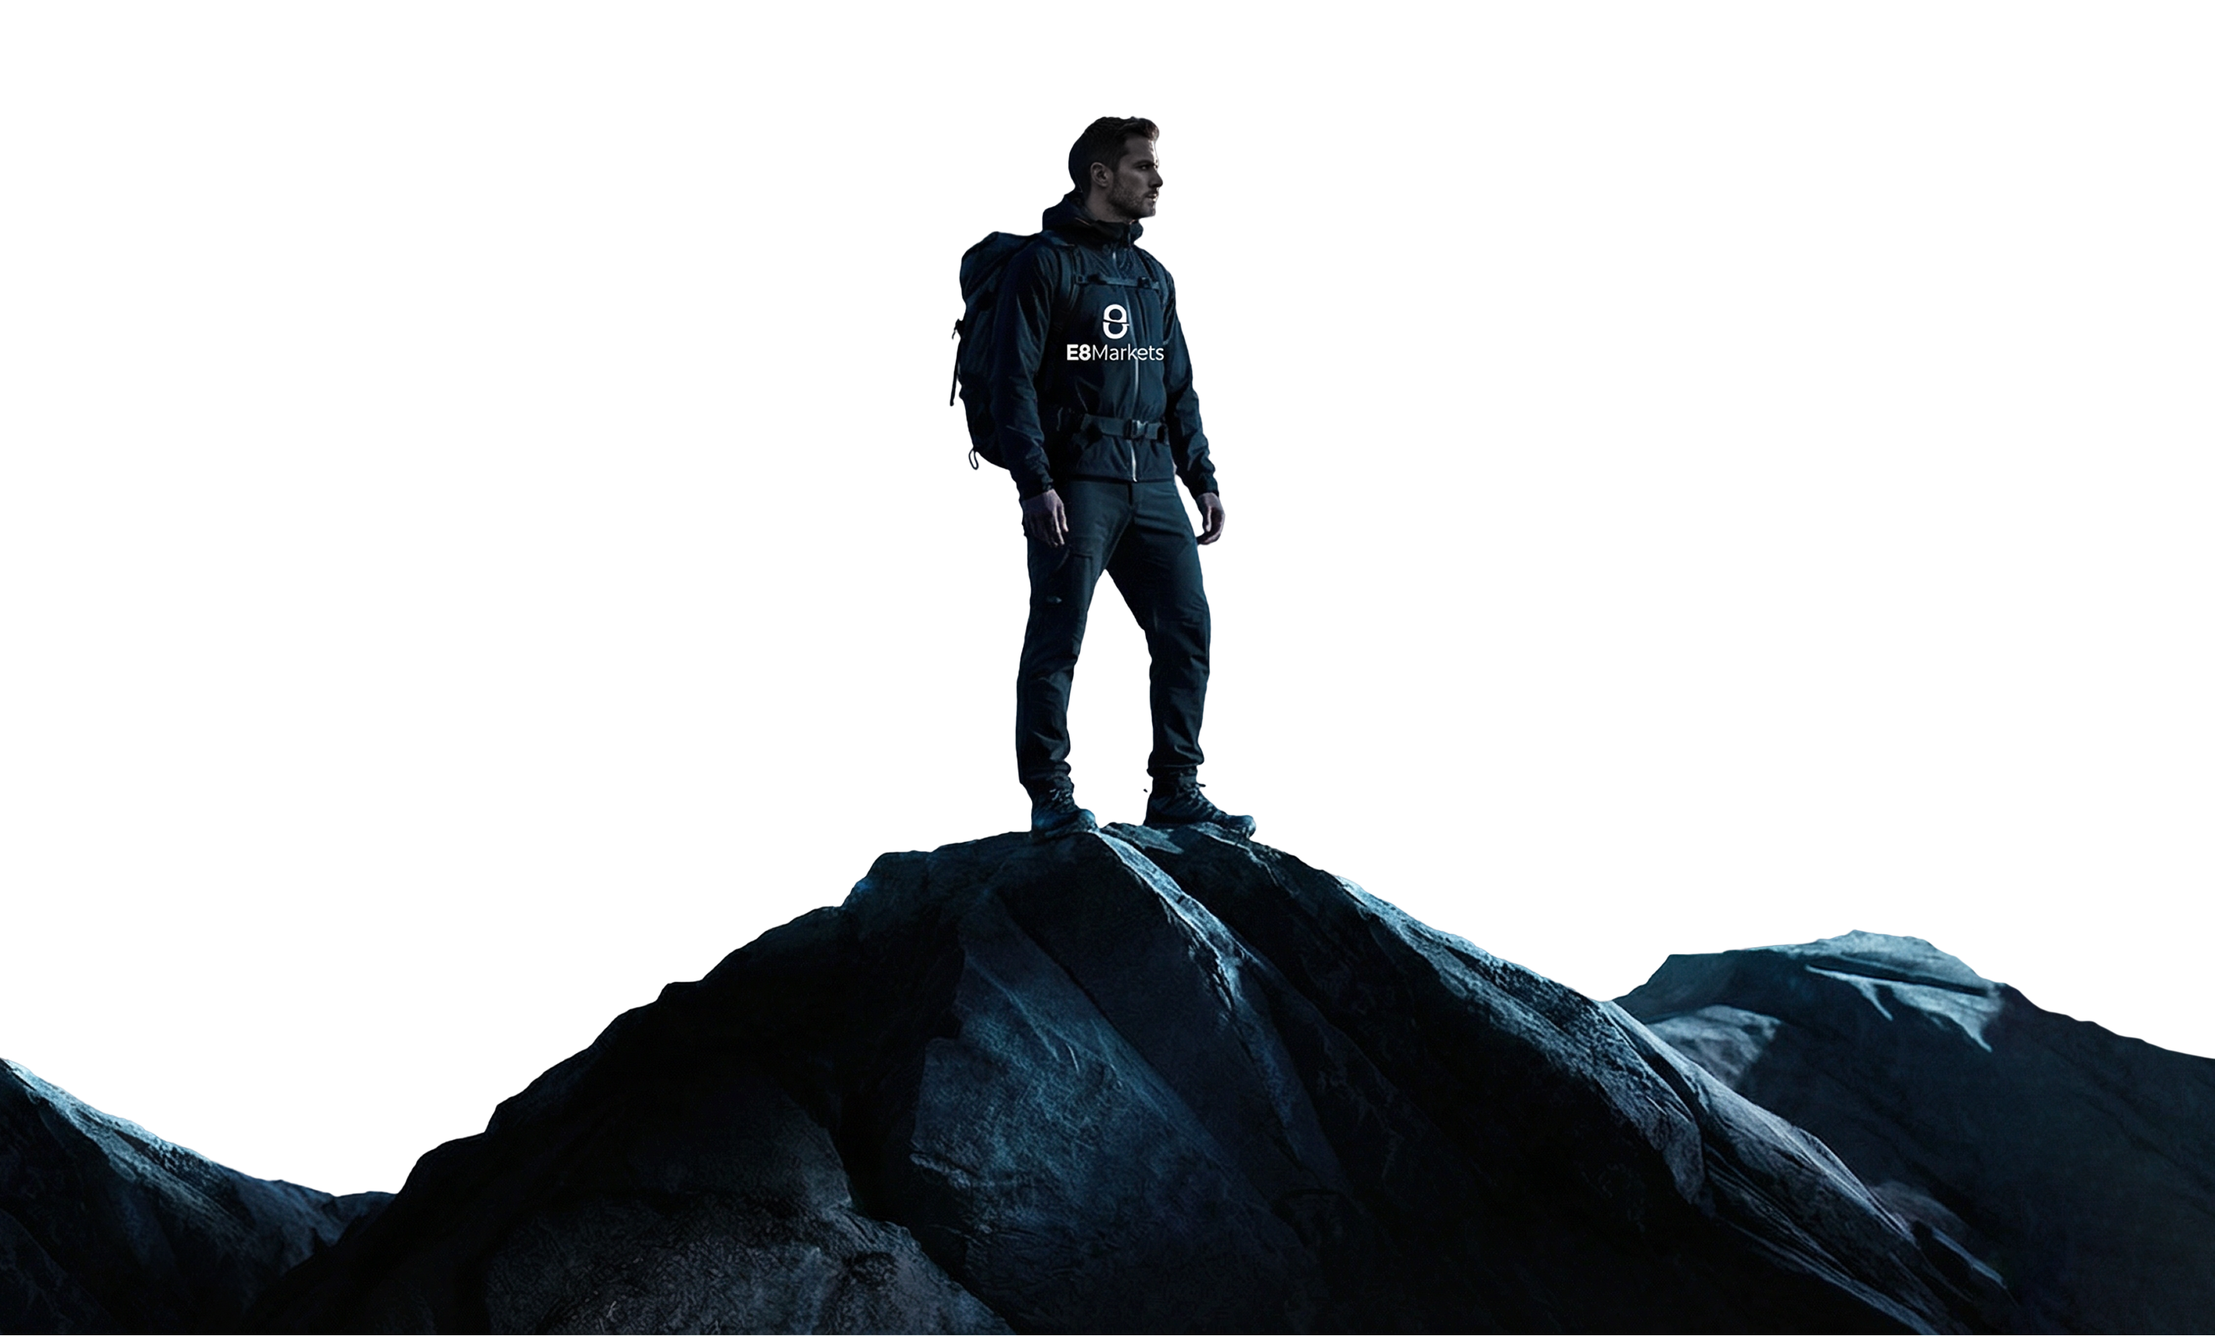
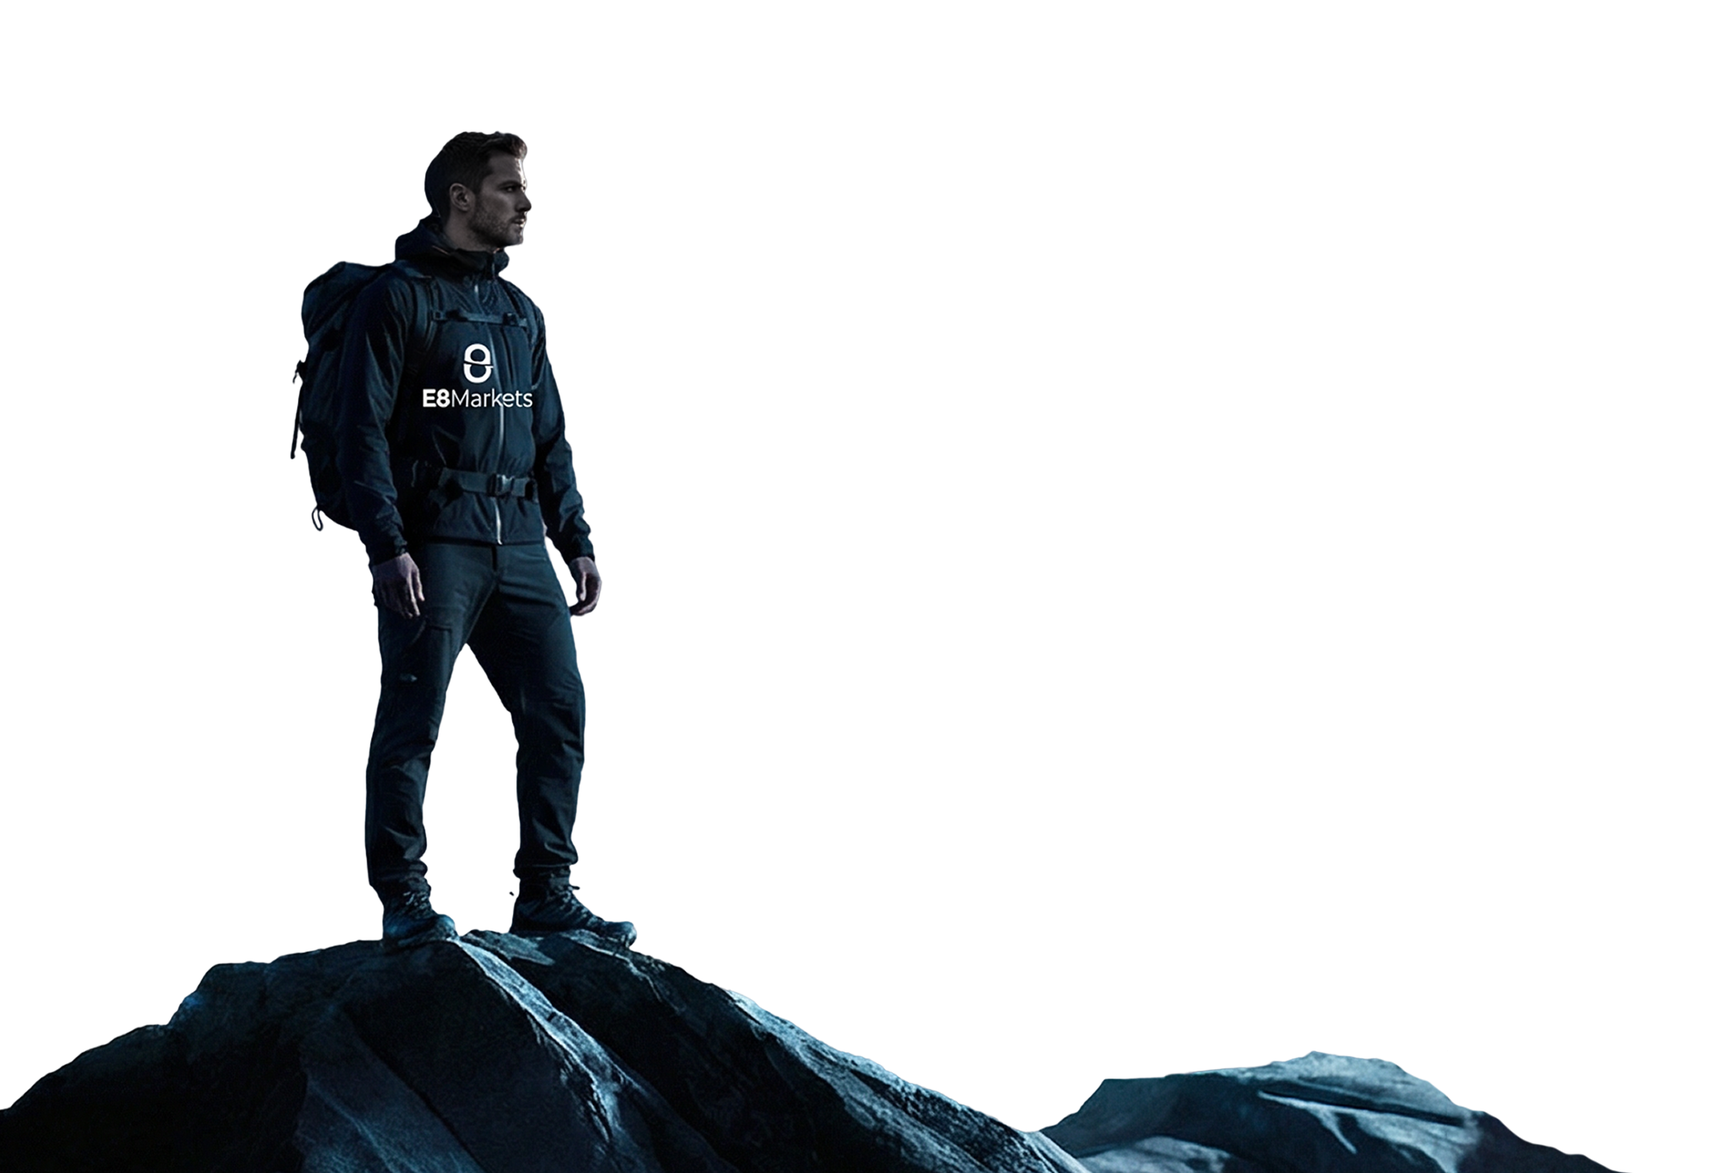
HowYouLearn-SectionsLivePayouts-SectionsSimFiExperience-sections

diff --git a/app/components/sections/SimFiExperience.vue b/app/components/sections/SimFiExperience.vue
@@ -1,60 +1,51 @@
 <template>
-  <section class="relative min-h-screen overflow-hidden py-20"
-    style="background: linear-gradient(180deg, #040404 0%, #1a0c04 30%, #3d1a05 60%, #000504 100%)">
-    <!-- Payout plaque image (phone mockup) -->
-    <div class="absolute right-0 top-0 w-[779px] h-[717px] pointer-events-none">
-      <img src="/images/simfi-payout-phone.png" alt="" class="w-full h-full object-cover" />
+  <section class="relative min-h-screen overflow-hidden">
+    <!-- Background layer 1: warm gradient, centered at bottom, flipped -->
+    <div class="absolute w-full h-[1224px] pointer-events-none flex items-center justify-center">
+      <div class="-scale-y-100 rotate-180 flex-none w-full h-full">
+        <img src="/images/simfi-bg-1.svg" alt="" class="w-full h-full" />
+      </div>
+    </div>
+    <!-- Background layer 2: soft-light accent, flipped -->
+    <div class="absolute bottom-[-5px] left-0 w-full h-[3368px] pointer-events-none mix-blend-soft-light flex items-center justify-center">
+      <div class="-scale-y-100 flex-none w-full h-full">
+        <img src="/images/simfi-bg-2.svg" alt="" class="w-full h-full" />
+      </div>
     </div>
 
-    <div class="relative z-10 max-w-[1440px] mx-auto px-20 py-[122px] flex flex-col justify-between min-h-screen">
-      <!-- Top: SimFi text + live board -->
-      <div class="flex gap-20 items-start">
-        <!-- Left text -->
-        <div class="w-[530px] flex flex-col gap-10">
-          <h2 class="text-[48px] font-normal text-[#441306] leading-[1.4]">
-            The SimFi™ <span class="lowercase">Experience</span>
-          </h2>
-          <div class="flex flex-col gap-3">
-            <div v-for="item in simfiPoints" :key="item" class="flex items-start gap-3">
-              <span class="w-1 h-full mt-1.5 bg-[#441306]/60 flex-shrink-0"></span>
-              <p class="text-[#441306]/80 text-sm leading-relaxed">{{ item }}</p>
-            </div>
-          </div>
-          <a href="#" class="self-start text-sm font-bold uppercase tracking-[-0.28px] rounded-full px-8 py-3 overflow-hidden hover:opacity-90 transition-opacity"
-            style="background: linear-gradient(90deg, #ffbfa4, #ffbfa4); color: #441306; box-shadow: inset 0px 3.345px 14.134px 0px #ff6f1f">
-            START TRADING
-          </a>
-        </div>
+    <!-- Content -->
+    <div class="relative z-10 w-full px-4 max-w-[1440px] lg:px-[80px] py-[122px] flex flex-col justify-between min-h-screen mx-auto gap-[80px]">
+      <!-- Phone plaque layer 1 -->
+      <div class="absolute w-[779px] h-[717px] pointer-events-none hidden md:block right-[-60%] md:right-[-50%] xl:right-0 top-[-123px]">
+        <img src="/images/simfi-payout-plaque-1.png" alt="" class="absolute inset-0 w-full h-full object-cover" />
+      </div>
+      <!-- Phone plaque layer 2: color-dodge -->
+      <div class="absolute w-[779px] h-[717px] pointer-events-none mix-blend-color-dodge opacity-[0.56] hidden md:block right-[-60%] md:right-[-50%] xl:right-0 top-[-123px]">
+        <img src="/images/simfi-payout-plaque-2.png" alt="" class="absolute inset-0 w-full h-full object-cover" />
+      </div>
 
-        <!-- Right: Live Payouts board -->
-        <div class="flex-1 flex flex-col gap-6 mt-auto">
-          <h3 class="text-[32px] text-white text-center leading-[1.6]">
-            Live earnings <span class="lowercase text-white">paid today</span>
-          </h3>
-          <div class="backdrop-blur-[43px] border border-white/10 rounded-xl p-3 overflow-hidden"
-            style="background: linear-gradient(90deg, rgba(255,255,255,0.07) 0%, rgba(39,0,0,0.67) 79.3%)">
-            <div class="flex items-center justify-between mb-3">
-              <p class="text-white/60 text-sm">Updated every 60 seconds</p>
-              <a href="#" class="text-white text-sm font-bold uppercase border-b border-white pb-0.5">
-                View Full Payout Leaderboard →
-              </a>
-            </div>
-            <div class="flex gap-3 overflow-hidden">
-              <div v-for="payout in payouts" :key="payout.name"
-                class="flex-shrink-0 backdrop-blur-[27px] bg-[rgba(131,95,57,0.2)] border border-white/8 rounded-xl p-6 flex items-center justify-between gap-4 w-[calc(33.3%-8px)]">
-                <p class="text-white text-sm w-24">{{ payout.name }}</p>
-                <span class="bg-white/8 text-white text-sm rounded-full px-3 py-1">{{ payout.market }}</span>
-                <p class="text-white/80 text-sm">{{ payout.time }}</p>
-                <p class="text-white font-bold text-base text-right">{{ payout.amount }}</p>
-              </div>
-            </div>
+      <!-- Top: text block -->
+      <div class="flex flex-col gap-[32px] w-full md:max-w-[50%] lg:w-[600px]">
+        <h2
+          class="font-schibsted text-[48px] font-normal text-[#441306] leading-[1.4] [font-feature-settings:'calt'_0,'liga'_0]">
+          The SimFi™ experience
+        </h2>
+        <div class="flex flex-col gap-[12px]">
+          <div v-for="item in simfiPoints" :key="item" class="flex items-center gap-[12px]">
+            <img src="/images/simfi-bullet.svg" alt="" class="w-[14px] h-[14px] shrink-0"/>
+            <p
+              class="font-schibsted text-[#441306] text-[16px] leading-[1.4] opacity-80 [font-feature-settings:'calt'_0,'liga'_0]">
+              {{ item }}</p>
           </div>
-          <p class="text-white text-xs italic text-center opacity-80">
-            Hypothetical/simulated performance has inherent limitations and does not represent actual trading;<br>
-            Results may differ materially in live market conditions.
-          </p>
+        </div>
+        <div class="flex">
+          <AtomicButtonSecondary label="START TRADING" href="#" variant="filled"/>
         </div>
       </div>
+
+      <!-- Bottom: live earnings board -->
+      <LiveEarningsBoard />
+
     </div>
   </section>
 </template>
@@ -63,12 +54,8 @@
 const simfiPoints = [
   'Simulated Finance™ is not a shortcut. It is a structured performance environment.',
   'We license trader performance data, analyze behavioral patterns, and build risk models designed to develop disciplined, capital-ready professionals.',
-  'You trade. We measure. Performance unlocks opportunity.'
+  'You trade. We measure. Performance unlocks opportunity.',
 ]
 
-const payouts = [
-  { name: 'Gabriela B.', market: 'Forex', time: '3 m ago', amount: '$3,250' },
-  { name: 'Leo J.', market: 'Futures', time: '9 m ago', amount: '$1,100' },
-  { name: 'Ryan K.', market: 'Crypto', time: '17 m ago', amount: '$112,900' }
-]
+
 </script>

diff --git a/app/components/sections/HowYouLearn.vue b/app/components/sections/HowYouLearn.vue
@@ -1,46 +1,66 @@
 <template>
-  <section class="relative min-h-[800px] overflow-hidden py-20">
-    <!-- Background -->
+  <section class="relative min-h-[800px] overflow-hidden">
+    <!-- Before Dawn: top-to-bottom dark atmosphere -->
+    <div
+      class="absolute inset-0"
+      style="background: linear-gradient(180deg, rgb(4,4,4) 5%, rgb(12,13,16) 17%, rgb(58,63,83) 42%, rgb(102,108,130) 73%); opacity: 0.75;"
+    ></div>
+    <!-- Right-side darkening for text readability -->
+    <div class="absolute inset-0 bg-gradient-to-r from-transparent via-[#000504]/40 to-[#000504]/90"></div>
+    <!-- Background image: above gradients -->
     <img
       src="/images/howyoulearn-mountain.png"
       alt=""
-      class="absolute inset-0 w-full h-full object-cover"
+      class="absolute inset-0 w-full h-full object-cover object-[30%_center] max-h-full lg:w-auto lg:object-[left_center]"
     />
-    <div class="absolute inset-0 bg-gradient-to-r from-transparent via-transparent to-[#000504]/80"></div>
 
-    <!-- Content -->
-    <div class="relative z-10 max-w-[1440px] mx-auto px-20 flex justify-end py-24">
-      <div class="w-[600px] flex flex-col gap-24">
-        <div class="flex flex-col gap-6">
-          <h2 class="text-[48px] text-white leading-[1.2]">
-            How <span class="lowercase">You Learn While You Earn</span>
+    <!-- Content: right-aligned -->
+    <div class="relative z-10 max-w-[1440px] mx-auto px-4 lg:px-[80px] py-[80px] flex justify-end">
+      <div class="w-full lg:w-[600px] flex flex-col gap-[126px]">
+
+        <!-- Main block -->
+        <div class="flex flex-col gap-[24px] max-w-[600px]">
+          <h2 class="max-w-[337px] text-[48px] text-white leading-[1.2] [font-feature-settings:'calt'_0,'liga'_0]">
+            How You Learn While You Earn
           </h2>
-          <div class="flex flex-col gap-6">
-            <div v-for="(step, i) in steps" :key="i" class="flex items-center gap-3">
-              <span class="text-white font-bold text-sm w-5 text-center opacity-80">{{ i + 1 }}</span>
-              <p class="text-white/80 font-medium text-base">{{ step }}</p>
+
+          <!-- Steps -->
+          <div class="flex flex-col gap-[24px] text-[16px]">
+            <div v-for="(step, i) in steps" :key="i" class="flex items-center gap-[12px]">
+              <span class="font-schibsted font-bold text-white/80 w-[20px] h-[20px] flex items-center justify-center shrink-0 text-[16px] leading-none tracking-[-0.32px] [text-shadow:0_0_12px_rgba(255,255,255,0.33)]">
+                {{ i + 1 }}
+              </span>
+              <p class="font-schibsted font-medium text-white/80 leading-none">{{ step }}</p>
             </div>
           </div>
-          <a href="#" class="self-start bg-white text-black text-sm font-bold uppercase tracking-[-0.56px] rounded-full px-8 py-3 hover:opacity-90 transition-opacity">
-            START TRADING
-          </a>
+
+          <!-- CTA -->
+          <div class="flex">
+            <AtomicButtonSecondary label="START TRADING" href="#" variant="filled" />
+          </div>
         </div>
 
         <!-- Disclaimer -->
-        <div class="flex flex-col gap-6">
-          <p class="text-white/60 text-sm italic leading-relaxed max-w-[397px]">
+        <div class="flex flex-col gap-[24px] max-w-[397px]">
+          <div class="flex items-center justify-center rotate-180">
+            <inline-svg src="/images/icon-scroll-down.svg" class="w-[10px] h-[13px]" />
+          </div>
+          <p class="font-schibsted italic font-normal text-[14px] text-white/60 leading-[16px] [font-feature-settings:'cv09'_1,'ss11'_1,'calt'_0,'liga'_0]">
             E8 is a SaaS educational simulation built for skills training, data collection, and analytical modeling. There is no live-capital or margin risk. Enrollment fees purchase access to the simulation & assessment; payouts are discretionary, not guaranteed, and contingent on E8's acceptance & licensing of your performance data.
           </p>
         </div>
+
       </div>
     </div>
   </section>
 </template>
 
 <script setup lang="ts">
+import InlineSvg from 'vue-inline-svg'
+
 const steps = [
   'Trade on a proven framework.',
   'Qualify through performance.',
-  'Get SimFi™ certified — and earn real payouts.'
+  'Get SimFi™ certified — and earn real payouts.',
 ]
 </script>

diff --git a/app/components/LiveEarningsBoard.vue b/app/components/LiveEarningsBoard.vue
@@ -1,0 +1,64 @@
+<template>
+  <div class="flex flex-col gap-[24px] items-center w-full">
+    <h3 class="text-[32px] text-white text-center leading-[1.6] capitalize max-w-[552px] w-full">
+      Live earnings paid today
+    </h3>
+
+    <!-- Board -->
+    <div
+      class="backdrop-blur-[43px] border border-white/10 rounded-xl overflow-hidden h-[162px] flex flex-col gap-[12px] w-full pt-[12px] pb-[12px]"
+      style="background: linear-gradient(90deg, rgba(255,255,255,0.07) 0%, rgba(39,0,0,0.67) 79.3%); box-shadow: inset 0px 0px 48px 0px rgba(255,255,255,0.25);"
+    >
+      <div class="flex items-center justify-between shrink-0 px-[12px]">
+        <p class="text-white/60 text-[14px] leading-[20px]">Updated every 60 seconds</p>
+        <a href="#" class="flex items-center gap-[10px] border-b border-white pb-px">
+          <span class="text-white text-[14px] font-bold uppercase tracking-[-0.28px] leading-[20px]">View Full Payout Leaderboard</span>
+          <span class="text-white text-[14px]">→</span>
+        </a>
+      </div>
+      <UCarousel
+        :items="payouts"
+        :dragFree="true"
+        :auto-scroll="{ speed: 2, stopOnInteraction: false, stopOnMouseEnter: true }"
+        :ui="{
+          viewport: 'overflow-hidden',
+          container: 'flex gap-[12px] px-[12px]',
+          item: 'basis-[410px] shrink-0 grow-0',
+        }"
+        loop
+      >
+        <template #default="{ item }">
+          <div class="relative backdrop-blur-[27px] bg-[rgba(131,95,57,0.2)] border border-white/[0.08] rounded-xl px-[16px] flex items-center justify-between gap-[12px] h-[78px] [box-shadow:inset_0px_-4px_48px_0px_rgba(255,255,255,0.08)]">
+            <p class="text-white text-[14px] leading-[20px] shrink-0">{{ item.name }}</p>
+            <span class="bg-white/[0.08] text-white text-[14px] leading-[20px] rounded-full px-[12px] py-[4px] text-center shrink-0">{{ item.market }}</span>
+            <p class="text-white/80 text-[14px] leading-[20px] text-center shrink-0">{{ item.time }}</p>
+            <p class="text-white font-bold text-[16px] leading-[24px] text-right shrink-0 ml-auto">{{ item.amount }}</p>
+          </div>
+        </template>
+      </UCarousel>
+    </div>
+
+    <!-- Disclaimer -->
+    <div class="flex flex-col gap-[12px] items-center w-full  mx-auto">
+      <div class="flex items-center justify-center rotate-180">
+        <inline-svg src="/images/icon-scroll-down.svg" class="w-[10px] h-[13px]" />
+      </div>
+      <p class="text-white text-[14px] italic text-center leading-[16px]">
+        Hypothetical/simulated performance has inherent limitations and does not represent actual trading;<br>
+        Results may differ materially in live market conditions.
+      </p>
+    </div>
+  </div>
+</template>
+
+<script setup lang="ts">
+import InlineSvg from 'vue-inline-svg'
+
+const payouts = [
+  { name: 'Gabriela B.', market: 'Forex',    time: '3 m ago',  amount: '$3,250' },
+  { name: 'Leo J.',      market: 'Futures',  time: '9 m ago',  amount: '$1,100' },
+  { name: 'Jonh S.',     market: 'Futures',  time: '12 m ago', amount: '$7,450' },
+  { name: 'Ryan K.',     market: 'Crypto',   time: '17 m ago', amount: '$112,900' },
+  { name: 'Mike S.',     market: 'Crypto',   time: '22 m ago', amount: '$62,900' },
+]
+</script>

diff --git a/app/components/sections/LivePayouts.vue b/app/components/sections/LivePayouts.vue
@@ -1,13 +1,13 @@
 <template>
   <section class="bg-white py-[124px]">
-    <div class="max-w-[1440px] mx-auto px-20 flex flex-col items-center gap-16">
+    <div class="max-w-[1440px] mx-auto px-4 lg:px-20 flex flex-col items-center gap-16">
       <h2 class="text-[32px] text-[#000504] text-center max-w-[622px] leading-[1.2]">
-        Over $60 <span class="lowercase font-normal">million paid out to traders who chose the smarter way to trade</span>
+        Over $60 million paid out to traders who chose the smarter way to trade
       </h2>
-      <div class="flex items-center justify-between w-full max-w-[1280px]">
-        <div v-for="badge in badges" :key="badge.caption" class="flex flex-col items-center gap-4 max-w-[231px] flex-1">
+      <div class="grid grid-cols-1 md:grid-cols-2 lg:grid-cols-4 gap-8 w-full max-w-[1280px]">
+        <div v-for="badge in badges" :key="badge.caption" class="flex flex-col items-center gap-4">
           <div class="h-20 flex items-center justify-center w-full">
-            <img :src="badge.img" :alt="badge.caption" class="max-h-full max-w-full object-contain" />
+            <img :src="badge.img" :alt="badge.caption" class="max-h-full max-w-full object-contain"/>
           </div>
           <p class="text-[#717173] text-base font-medium text-center" v-html="badge.caption"></p>
         </div>

diff --git a/app/components/sections/AccountSelection.vue b/app/components/sections/AccountSelection.vue
@@ -99,7 +99,7 @@
         <!-- Email promo -->
         <div class="flex flex-col items-center gap-6">
           <div class="border border-white/10 rounded-full px-6 py-3 flex items-center gap-8">
-            <p class="text-white/60 text-base">Save <span class="lowercase">up to 50% with our code</span></p>
+            <p class="text-white/60 text-base">Save up to 50% with our code</p>
             <div class="flex items-center bg-white/10 border border-white/10 rounded-full pl-4 pr-1 py-1">
               <input type="email" placeholder="YOUR EMAIL" class="bg-transparent text-[#6d6d6d] text-sm uppercase tracking-tight outline-none w-[100px]" />
               <button class="bg-[#19f3cb] text-[#03020e] text-sm font-bold uppercase rounded-full px-4 py-2">GET CODE</button>

diff --git a/app/components/sections/BuiltForPerformance.vue b/app/components/sections/BuiltForPerformance.vue
@@ -14,8 +14,8 @@
     <div class="relative z-10 max-w-[1440px] mx-auto px-20 min-h-[740px] flex items-center justify-end">
       <div class="w-[530px] flex flex-col gap-8">
         <h2 class="text-[48px] text-white leading-[1.2]">
-          Built for <span class="lowercase">Long-Term</span><br>
-          <span class="lowercase">Trading Performance</span>
+          Built for long-term<br>
+          trading performance
         </h2>
         <div class="flex flex-col gap-3">
           <p class="text-white/80 text-base">We do not fast-track hype. We develop professionals.</p>

diff --git a/app/components/sections/CertificationPath.vue b/app/components/sections/CertificationPath.vue
@@ -1,8 +1,8 @@
 <template>
   <section class="bg-white py-20">
     <div class="max-w-[1440px] mx-auto px-20 flex flex-col items-center gap-10">
-      <h2 class="text-[40px] text-[#000504] text-center">
-        Your <span class="lowercase font-normal">Path to</span> SimFi™ <span class="lowercase font-normal">Certification</span>
+      <h2 class="text-[40px] text-[#000504] text-center font-normal">
+        Your path to SimFi™ certification
       </h2>
       <div class="flex gap-7 items-center">
         <div v-for="card in cards" :key="card.title"

diff --git a/app/components/sections/ReadyToStart.vue b/app/components/sections/ReadyToStart.vue
@@ -11,8 +11,8 @@
     </div>
 
     <div class="relative z-10 max-w-[1440px] mx-auto px-20 py-20 flex flex-col items-center gap-8">
-      <h2 class="text-[48px] text-[#000504] text-center leading-[1.6]">
-        Ready to <span class="lowercase font-normal">Get Started?</span>
+      <h2 class="text-[48px] text-[#000504] text-center leading-[1.6] font-normal">
+        Ready to get started?
       </h2>
       <div class="flex items-center gap-20 justify-center">
         <div v-for="point in points" :key="point" class="flex items-center gap-3">

diff --git a/app/components/sections/Faq.vue b/app/components/sections/Faq.vue
@@ -4,8 +4,8 @@
       <!-- Left side -->
       <div class="flex-1 flex flex-col justify-between min-h-[585px]">
         <h2 class="text-[56px] text-white leading-[1.2]">
-          Frequently <span class="lowercase">Asked</span><br>
-          <span class="lowercase">Questions</span>
+          Frequently asked<br>
+          questions
         </h2>
         <div class="flex flex-col gap-6">
           <p class="text-white text-sm italic leading-relaxed">
